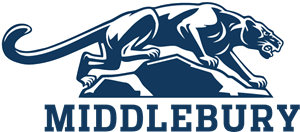
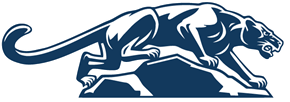
updated image-text header and utilized .h2 in index.js

diff --git a/src/styles/main.module.css b/src/styles/main.module.css
@@ -2,7 +2,7 @@
   font-family: sans-serif;
   font-size: 1.25rem;
   line-height: 150%;
-  background-color: #faf3e0;
+  background-color: white;
 }
 
 .article {
@@ -14,12 +14,15 @@
 }
 
 .h1 {
+  display: flex;
+  align-items: center;
+  justify-content: center;
   font-size: 4rem;
   font-family: "Times New Roman", Times, serif;
   text-align: center;
   /*background-color: white; */
-  color: rgb(55, 83, 140);
-  text-shadow: 0 2px 2px #89b2ff;
+  color: rgb(18, 57, 93);
+  text-shadow: 0 2px 2px rgb(117, 163, 205);
   border-color: #a0a1a1;
   background-size: cover;
   background-repeat: no-repeat;
@@ -27,15 +30,13 @@
 }
 
 .h2 {
-  font-size: 4rem;
+  font-size: 2rem;
   padding-bottom: 2rem;
   padding-top: 1rem;
   font-family: "Times New Roman", Times, serif;
   text-align: center;
-  background-color: white;
-  color: #00008b;
+  color: white;
   text-shadow: 0 2px 2px #040409;
-  border-color: white;
 }
 
 /* Pattern styles */
@@ -46,11 +47,11 @@
 }
 
 .leftHalf {
-  background: #89b2ff;
+  background: rgb(117, 163, 205);
   grid-column: 1;
 }
 
 .rightHalf {
-  background: rgb(55, 83, 140);
+  background: rgb(18, 57, 93);
   grid-column: 2;
 }

diff --git a/src/pages/index.js b/src/pages/index.js
@@ -36,17 +36,19 @@ export default function Home() {
       <main className={styles.body}>
         <div className={styles.h1}>
           <Image height={100} width={300} src={panther} alt="panther" />
-          Middlebury Housing
+          <h3>Middlebury Housing</h3>
         </div>
         <section className={styles.container}>
           <div className={styles.leftHalf}>
             <article>
-              <h2>Find A Dorm</h2>
-
+              <div className={styles.h2}>
+                <p>Find a dorm</p>
+              </div>
               <SearchBar dorms={dorms} />
             </article>
           </div>
           <div className={styles.rightHalf}>
+            <div className={styles.h2}>Select a dorm!</div>
             <InteractiveMap />
           </div>
         </section>

diff --git a/src/components/InteractiveMap.js b/src/components/InteractiveMap.js
@@ -15,7 +15,6 @@ function InteractiveMap() {
 
   return (
     <article>
-      <h2 className={styles.title}>Select a dorm!</h2>
       <div className={styles.mapContainer}>
         <Image height={700} width={1200} src={campusmap} alt="campus map" />
         {locations.map((place) => (
